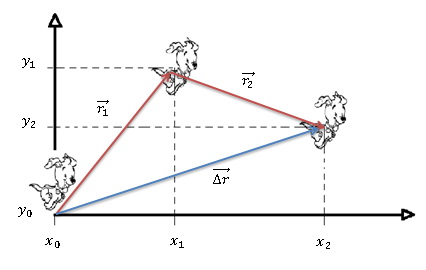
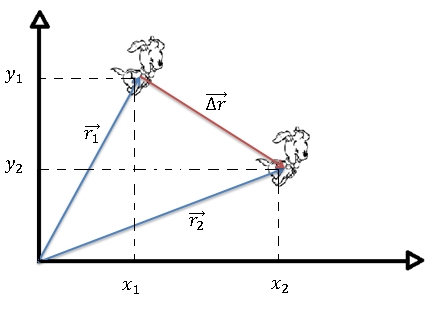
Finished Movimiento Rectilineo

diff --git a/build/_cinematica.html b/build/_cinematica.html
@@ -34,10 +34,10 @@
             </section>
             <section class='vector-posicion'>
                 <p>
-                    <h1>Vector Posición</h1><br>
+                    <h1>Posición de una particula</h1><br>
                     Veamos el caso de Skippy, el corre de izquierda a derecha, moviendose de una posicion inicial (x
                     <sub>0</sub>) a una posicion final (x
-                    <sub>f</sub>), donde el termino "posicion" es solo su ubicacion en el espacio. Si restamos la posicion final de Skippy con su posicion inicial podemos obtener el <b>vector posición</b> `vecr`, el cual describe la ubicación de una particula en el espacio como se observa en la siguiente figura.<br>
+                    <sub>f</sub>), donde el termino "posicion" es solo su ubicacion en el espacio. Si restamos la posicion final de Skippy con su posicion inicial podemos obtener el <b>vector desplazamiento</b> `vecr`, el cual describe la ubicación de una particula en el espacio como se observa en la siguiente figura.<br>
                     <figure class='imagen'>
                         <img src='images/vector-posicion.png'>
                     </figure>
@@ -56,6 +56,14 @@
                             <img src='images/skippy-vector-desplazamiento.png'>
                     </figure>
                     <strong>Figura 2: </strong>Skippy demostrando el vector desplazamiento con un salto. <br><br>
+                    Ahora Skippy mientras esta en el aire tiene una posicion inicial x<sub>1</sub> y y<sub>1</sub>, creamos nuestro sistema de referencia y trazamos nuestro vector `vecr1`, luego mientras aterriza tiene una posicion diferente, en este caso x<sub>2</sub> y y<sub>2</sub>, donde su nueva posicion viene dado por el vector `vecr2`. Muy interesante, ahora tenemos dos vectores posicion, pero que sucede si queremos saber cuanto se desplazo Skippy al cambiar de la posicion `vecr1` a la posicion `vecr2`? Aqui es donde entra el <b>vector desplazamiento</b>, lo cual representa el cambio de posicion de una particula y viene dado por:  <br><br>
+                    `vecr`<sub>1</sub> = `x1hati + y1hatj`<br>
+                    `vecr`<sub>2</sub> = `x2hati + y2hatj`<br><br>
+                    Con esos dos vectores posicion, podemos obtener el <b>vector desplazamiento</b>: <br><br>
+                    `Delta``vecr` = `vecr`<sub>2</sub> - `vecr`<sub>1</sub> <br>
+                    `Delta``vecr` = `(x2 - x1)hati + (y2 - y1)hatj` <br><br>
+                    Es muy importante darse cuenta de que esta formula significa que no importa la trayectoria que una particula tenga, solo importa cual fue su posicion inicial y final.<br>
+
                 </p>
             </section>
             <section class='velocidad'>
@@ -65,18 +73,26 @@
                     `vecV`= `frac{xf - x0}{tf - t0}`
                     <br>
                     Sus unidades son los `frac{metros}{segundos}`, entonces la velocidad es la cantidad de metros recorridos en <b>un segundo</b>.
-                    <br>
+                    <br><br>
+                    La formula que vimos es conocida como <b>Velocidad Media</b>, que es el Desplazamiento entre el tiempo que le tomo cambiar posicion. Existe otro tipo de velocidad conocido como <b>Velocidad Instantanea</b>, el cual es el limite de la velocidad media cuando tiende a cero, o en terminos mas sencillos, es la velocidad en cualquier instante de tiempo. <br><br>
+                    `vecV = (dvecr)/(dt)` <br><br>
+                    Probablemente se esten asustando al ver que la derivada del desplazamiento con respecto al tiempo es la velocidad, pero esto solo nos indica que si `vecr` cambia a diferentes valores de tiempo, obtenemos una velocidad. <br><br>
+                </p>
+            </section>
+            <section class='aceleracion'>
+                <h1>Aceleracion</h1>
+                <p>
                     Ahora que sucede si Skippy corre mas rapido? <br>
                     <figure class='imagen'>
                         <img src='images/skippy-aceleracion.png'>
                     </figure>
                     <strong>Figura 2: </strong>Skippy moviendose con velocidades diferentes. <br><br>
                     En este caso Skippy se mueve con una velocidad `v`<sub>0</sub> en un tiempo `t`<sub>0</sub>, pero cuando transcurre un tiempo `t`<sub>f</sub> ahora adquiere una velocidad diferente llamada `v`<sub>f</sub>. Este cambio de velocidad con respecto al tiempo es conocido como <b>aceleracion</b>. <br><br>
-                    `veca`= `frac{vf - v0}{tf - t0}`
-                    <br>
+                    `veca`= `frac{vf - v0}{tf - t0}`<br>
+                    `veca = (dvecv)/(dt)` <br><br>
                     Sus unidades son los `frac{metros}{segundos^2}`, entonces la aceleracion es la variacion de la velocidad con respecto al tiempo, o visto de otra manera, es la variacion de distancias recorridas por una particula (en este caso Skippy!) con respecto al cuadrado del tiempo.
                     <br><br>
-                    Esto solo es un abre bocas de lo que veremos en este tema, nos adentraremos en profundidad con la Fisica junto a Skippy!s
+                    Esto solo es un abre bocas de lo que veremos en este tema, nos adentraremos en profundidad con la Fisica junto a Skippy!
                 </p>
             </section>
         </article>

diff --git a/src/_cinematica.html b/src/_cinematica.html
@@ -34,10 +34,10 @@
             </section>
             <section class='vector-posicion'>
                 <p>
-                    <h1>Vector Posición</h1><br>
+                    <h1>Posición de una particula</h1><br>
                     Veamos el caso de Skippy, el corre de izquierda a derecha, moviendose de una posicion inicial (x
                     <sub>0</sub>) a una posicion final (x
-                    <sub>f</sub>), donde el termino "posicion" es solo su ubicacion en el espacio. Si restamos la posicion final de Skippy con su posicion inicial podemos obtener el <b>vector posición</b> `vecr`, el cual describe la ubicación de una particula en el espacio como se observa en la siguiente figura.<br>
+                    <sub>f</sub>), donde el termino "posicion" es solo su ubicacion en el espacio. Si restamos la posicion final de Skippy con su posicion inicial podemos obtener el <b>vector desplazamiento</b> `vecr`, el cual describe la ubicación de una particula en el espacio como se observa en la siguiente figura.<br>
                     <figure class='imagen'>
                         <img src='images/vector-posicion.png'>
                     </figure>
@@ -56,6 +56,14 @@
                             <img src='images/skippy-vector-desplazamiento.png'>
                     </figure>
                     <strong>Figura 2: </strong>Skippy demostrando el vector desplazamiento con un salto. <br><br>
+                    Ahora Skippy mientras esta en el aire tiene una posicion inicial x<sub>1</sub> y y<sub>1</sub>, creamos nuestro sistema de referencia y trazamos nuestro vector `vecr1`, luego mientras aterriza tiene una posicion diferente, en este caso x<sub>2</sub> y y<sub>2</sub>, donde su nueva posicion viene dado por el vector `vecr2`. Muy interesante, ahora tenemos dos vectores posicion, pero que sucede si queremos saber cuanto se desplazo Skippy al cambiar de la posicion `vecr1` a la posicion `vecr2`? Aqui es donde entra el <b>vector desplazamiento</b>, lo cual representa el cambio de posicion de una particula y viene dado por:  <br><br>
+                    `vecr`<sub>1</sub> = `x1hati + y1hatj`<br>
+                    `vecr`<sub>2</sub> = `x2hati + y2hatj`<br><br>
+                    Con esos dos vectores posicion, podemos obtener el <b>vector desplazamiento</b>: <br><br>
+                    `Delta``vecr` = `vecr`<sub>2</sub> - `vecr`<sub>1</sub> <br>
+                    `Delta``vecr` = `(x2 - x1)hati + (y2 - y1)hatj` <br><br>
+                    Es muy importante darse cuenta de que esta formula significa que no importa la trayectoria que una particula tenga, solo importa cual fue su posicion inicial y final.<br>
+
                 </p>
             </section>
             <section class='velocidad'>
@@ -65,18 +73,26 @@
                     `vecV`= `frac{xf - x0}{tf - t0}`
                     <br>
                     Sus unidades son los `frac{metros}{segundos}`, entonces la velocidad es la cantidad de metros recorridos en <b>un segundo</b>.
-                    <br>
+                    <br><br>
+                    La formula que vimos es conocida como <b>Velocidad Media</b>, que es el Desplazamiento entre el tiempo que le tomo cambiar posicion. Existe otro tipo de velocidad conocido como <b>Velocidad Instantanea</b>, el cual es el limite de la velocidad media cuando tiende a cero, o en terminos mas sencillos, es la velocidad en cualquier instante de tiempo. <br><br>
+                    `vecV = (dvecr)/(dt)` <br><br>
+                    Probablemente se esten asustando al ver que la derivada del desplazamiento con respecto al tiempo es la velocidad, pero esto solo nos indica que si `vecr` cambia a diferentes valores de tiempo, obtenemos una velocidad. <br><br>
+                </p>
+            </section>
+            <section class='aceleracion'>
+                <h1>Aceleracion</h1>
+                <p>
                     Ahora que sucede si Skippy corre mas rapido? <br>
                     <figure class='imagen'>
                         <img src='images/skippy-aceleracion.png'>
                     </figure>
                     <strong>Figura 2: </strong>Skippy moviendose con velocidades diferentes. <br><br>
                     En este caso Skippy se mueve con una velocidad `v`<sub>0</sub> en un tiempo `t`<sub>0</sub>, pero cuando transcurre un tiempo `t`<sub>f</sub> ahora adquiere una velocidad diferente llamada `v`<sub>f</sub>. Este cambio de velocidad con respecto al tiempo es conocido como <b>aceleracion</b>. <br><br>
-                    `veca`= `frac{vf - v0}{tf - t0}`
-                    <br>
+                    `veca`= `frac{vf - v0}{tf - t0}`<br>
+                    `veca = (dvecv)/(dt)` <br><br>
                     Sus unidades son los `frac{metros}{segundos^2}`, entonces la aceleracion es la variacion de la velocidad con respecto al tiempo, o visto de otra manera, es la variacion de distancias recorridas por una particula (en este caso Skippy!) con respecto al cuadrado del tiempo.
                     <br><br>
-                    Esto solo es un abre bocas de lo que veremos en este tema, nos adentraremos en profundidad con la Fisica junto a Skippy!s
+                    Esto solo es un abre bocas de lo que veremos en este tema, nos adentraremos en profundidad con la Fisica junto a Skippy!
                 </p>
             </section>
         </article>

diff --git a/build/_movimientos-rectilineos.html b/build/_movimientos-rectilineos.html
@@ -22,10 +22,11 @@
             <section class='introduccion'>
                 <h1 class='title'>Movimiento Rectilíneo</h1>
                 <p>
-                    Hemos visto como Skippy se mueve de izquierda a derecha en una sola dirección, esto es conocido como Movimiento Rectilíneo. Existen dos formas de este tipo de movimiento: <br><br>
+                    Hemos visto como Skippy se mueve de izquierda a derecha en una sola dirección, esto es conocido como Movimiento Rectilíneo. Un movimiento rectilíneo es aquel cuya trayectoria es una línea recta. En los movimientos rectilíneos podemos tratar las magnitudes cinemáticas vectoriales como si fuesen escalares, como la posicion, velocidad y aceleracion. Existen dos formas de este tipo de movimiento: <br><br>
                     <ul>
                         <li>
                             <h1>Movimiento Rectilíneo Uniforme (M.R.U)</h1>
+                            
                         </li>
                         <li>
                             <h1>Movimiento Rectilíneo Uniformemente Acelerado (M.R.U.A)</h1>
@@ -38,11 +39,38 @@
             <section class='MRUA'>
                 <h1>Movimiento Rectilíneo Uniformemente Acelerado</h1>
                 <p>
-                    Veamos nuevamente a Skippy en la imagén de abajo.
-                    <figure class='vector'>
-                        <img src='images/skippy-plano-recto.png'>
+                    Un cuerpo realiza un movimiento rectilíneo uniformemente acelerado (MRUA) cuando su trayectoria es una línea recta y su aceleración es constante y distinta de 0. Podemos relacionar este concepto con la siguiente ecuacion: <br>
+                    <ul>
+                        <li>Posicion: `xf = xo +vo*t +- (1/2)*a*t^2`</li>
+                        <li>Velocidad con dependencia del tiempo: `vf = vo +- a*t`</li>
+                        <li>Velocidad con dependencia de la posicion: `vf^2 = vo^2 +- 2*a*(xf - x0)`</li>
+                    </ul>
+                    Son las tres ecuaciones mas importantes del Movimiento Rectilineo, si quisieramos adaptarlas para el M.R.U, solo hacemos cero la aceleracion. <br><br>
+                    Parece que nuestro amigo Skippy se encontro a un amigo! El se encuentra sentado mientras un gato llamado Cato pasa a su lado con una velocidad constante de 7m/s, Skippy reacciona un segundo despues y lo persigue para ser amigos a una aceleracion de 3`m/s^2`, en que tiempo y velocidad Skippy lo atrapa?
+                    <figure class='imagen'>
+                        <img src='images/MRU-persecucion.png'>
                     </figure>
-                    <strong>Figura 1:</strong> Skippy corriendo a diferentes velocidades. <br>
+                    <strong>Figura 1: </strong>Ejercicio para demostrar el MRUA. <br><br>
+                    <p>
+                        Aqui tenemos que analizar a nuestros dos personajes, por un lado Skippy se encuentra en reposo, mientras que Cato va a una cierta velocidad y en un tiempo determinado le saca una cierta distancia, podemos usar la ecuacion de posicion para saber exactamente cuantos metros le saca:<br>
+                        `x = x0 + vo*t`<br><br>
+                        Donde la posicion inicial de Cato la tomaremos como cero (recuerden que tenemos control sobre nuestro sistema de referencia), asi que sabiendo la velocidad y el tiempo obtenemos que Cato le saca <b>7 metros de ventaja</b>. 
+                    </p>
+                    <p>
+                        Ahora tenemos nuestros datos, la posicion inicial de Skippy es cero, mientras que el gato tiene una de 7 metros, sabemos que Skippy alcanzara al gato porque el acelera mientras Cato sigue con velocidad constante (sera lo maximo que puede correr?), eso quiere decir que la posicion final de ambos sera la misma.<br>
+                        <ul>
+                            <li>Skippy: `xf = xo +vo*t + (1/2)*a*t^2` = `0 + 0 + (1/2)*(3m/s^2)*t^2`</li>
+                            <li>Cato: `xf = xo +vo*t` = `7 +(7 m/s)*t`</li>
+                        </ul>
+                        Si igualamos la posicion final de ambos nos queda: <br>
+                        `(1/2)*(3m/s^2)*t^2 = 7 +(7 m/s)*t`<br>
+                        Donde podemos despejar el tiempo y sabremos que tiene un valor de <b>5,5 segundos</b>. Con ese valor de tiempo podemos obtener la velocidad con la que SKippy atrapa a Cato. <br>
+                    </p>
+                    <p>
+                        `vf = vo +- a*t` = `0 + (3 m/s^2))*(5,5 s)` <br>
+                        Dando como resultado una velocidad de <b>16,5 m/s</b>! <br>
+                        Es asi como resolvemos un ejercicio tipo examen!
+                    </p>
                     
                 </p>
             </section>

diff --git a/src/_movimientos-rectilineos.html b/src/_movimientos-rectilineos.html
@@ -22,10 +22,11 @@
             <section class='introduccion'>
                 <h1 class='title'>Movimiento Rectilíneo</h1>
                 <p>
-                    Hemos visto como Skippy se mueve de izquierda a derecha en una sola dirección, esto es conocido como Movimiento Rectilíneo. Existen dos formas de este tipo de movimiento: <br><br>
+                    Hemos visto como Skippy se mueve de izquierda a derecha en una sola dirección, esto es conocido como Movimiento Rectilíneo. Un movimiento rectilíneo es aquel cuya trayectoria es una línea recta. En los movimientos rectilíneos podemos tratar las magnitudes cinemáticas vectoriales como si fuesen escalares, como la posicion, velocidad y aceleracion. Existen dos formas de este tipo de movimiento: <br><br>
                     <ul>
                         <li>
                             <h1>Movimiento Rectilíneo Uniforme (M.R.U)</h1>
+                            
                         </li>
                         <li>
                             <h1>Movimiento Rectilíneo Uniformemente Acelerado (M.R.U.A)</h1>
@@ -38,11 +39,38 @@
             <section class='MRUA'>
                 <h1>Movimiento Rectilíneo Uniformemente Acelerado</h1>
                 <p>
-                    Veamos nuevamente a Skippy en la imagén de abajo.
-                    <figure class='vector'>
-                        <img src='images/skippy-plano-recto.png'>
+                    Un cuerpo realiza un movimiento rectilíneo uniformemente acelerado (MRUA) cuando su trayectoria es una línea recta y su aceleración es constante y distinta de 0. Podemos relacionar este concepto con la siguiente ecuacion: <br>
+                    <ul>
+                        <li>Posicion: `xf = xo +vo*t +- (1/2)*a*t^2`</li>
+                        <li>Velocidad con dependencia del tiempo: `vf = vo +- a*t`</li>
+                        <li>Velocidad con dependencia de la posicion: `vf^2 = vo^2 +- 2*a*(xf - x0)`</li>
+                    </ul>
+                    Son las tres ecuaciones mas importantes del Movimiento Rectilineo, si quisieramos adaptarlas para el M.R.U, solo hacemos cero la aceleracion. <br><br>
+                    Parece que nuestro amigo Skippy se encontro a un amigo! El se encuentra sentado mientras un gato llamado Cato pasa a su lado con una velocidad constante de 7m/s, Skippy reacciona un segundo despues y lo persigue para ser amigos a una aceleracion de 3`m/s^2`, en que tiempo y velocidad Skippy lo atrapa?
+                    <figure class='imagen'>
+                        <img src='images/MRU-persecucion.png'>
                     </figure>
-                    <strong>Figura 1:</strong> Skippy corriendo a diferentes velocidades. <br>
+                    <strong>Figura 1: </strong>Ejercicio para demostrar el MRUA. <br><br>
+                    <p>
+                        Aqui tenemos que analizar a nuestros dos personajes, por un lado Skippy se encuentra en reposo, mientras que Cato va a una cierta velocidad y en un tiempo determinado le saca una cierta distancia, podemos usar la ecuacion de posicion para saber exactamente cuantos metros le saca:<br>
+                        `x = x0 + vo*t`<br><br>
+                        Donde la posicion inicial de Cato la tomaremos como cero (recuerden que tenemos control sobre nuestro sistema de referencia), asi que sabiendo la velocidad y el tiempo obtenemos que Cato le saca <b>7 metros de ventaja</b>. 
+                    </p>
+                    <p>
+                        Ahora tenemos nuestros datos, la posicion inicial de Skippy es cero, mientras que el gato tiene una de 7 metros, sabemos que Skippy alcanzara al gato porque el acelera mientras Cato sigue con velocidad constante (sera lo maximo que puede correr?), eso quiere decir que la posicion final de ambos sera la misma.<br>
+                        <ul>
+                            <li>Skippy: `xf = xo +vo*t + (1/2)*a*t^2` = `0 + 0 + (1/2)*(3m/s^2)*t^2`</li>
+                            <li>Cato: `xf = xo +vo*t` = `7 +(7 m/s)*t`</li>
+                        </ul>
+                        Si igualamos la posicion final de ambos nos queda: <br>
+                        `(1/2)*(3m/s^2)*t^2 = 7 +(7 m/s)*t`<br>
+                        Donde podemos despejar el tiempo y sabremos que tiene un valor de <b>5,5 segundos</b>. Con ese valor de tiempo podemos obtener la velocidad con la que SKippy atrapa a Cato. <br>
+                    </p>
+                    <p>
+                        `vf = vo +- a*t` = `0 + (3 m/s^2))*(5,5 s)` <br>
+                        Dando como resultado una velocidad de <b>16,5 m/s</b>! <br>
+                        Es asi como resolvemos un ejercicio tipo examen!
+                    </p>
                     
                 </p>
             </section>
